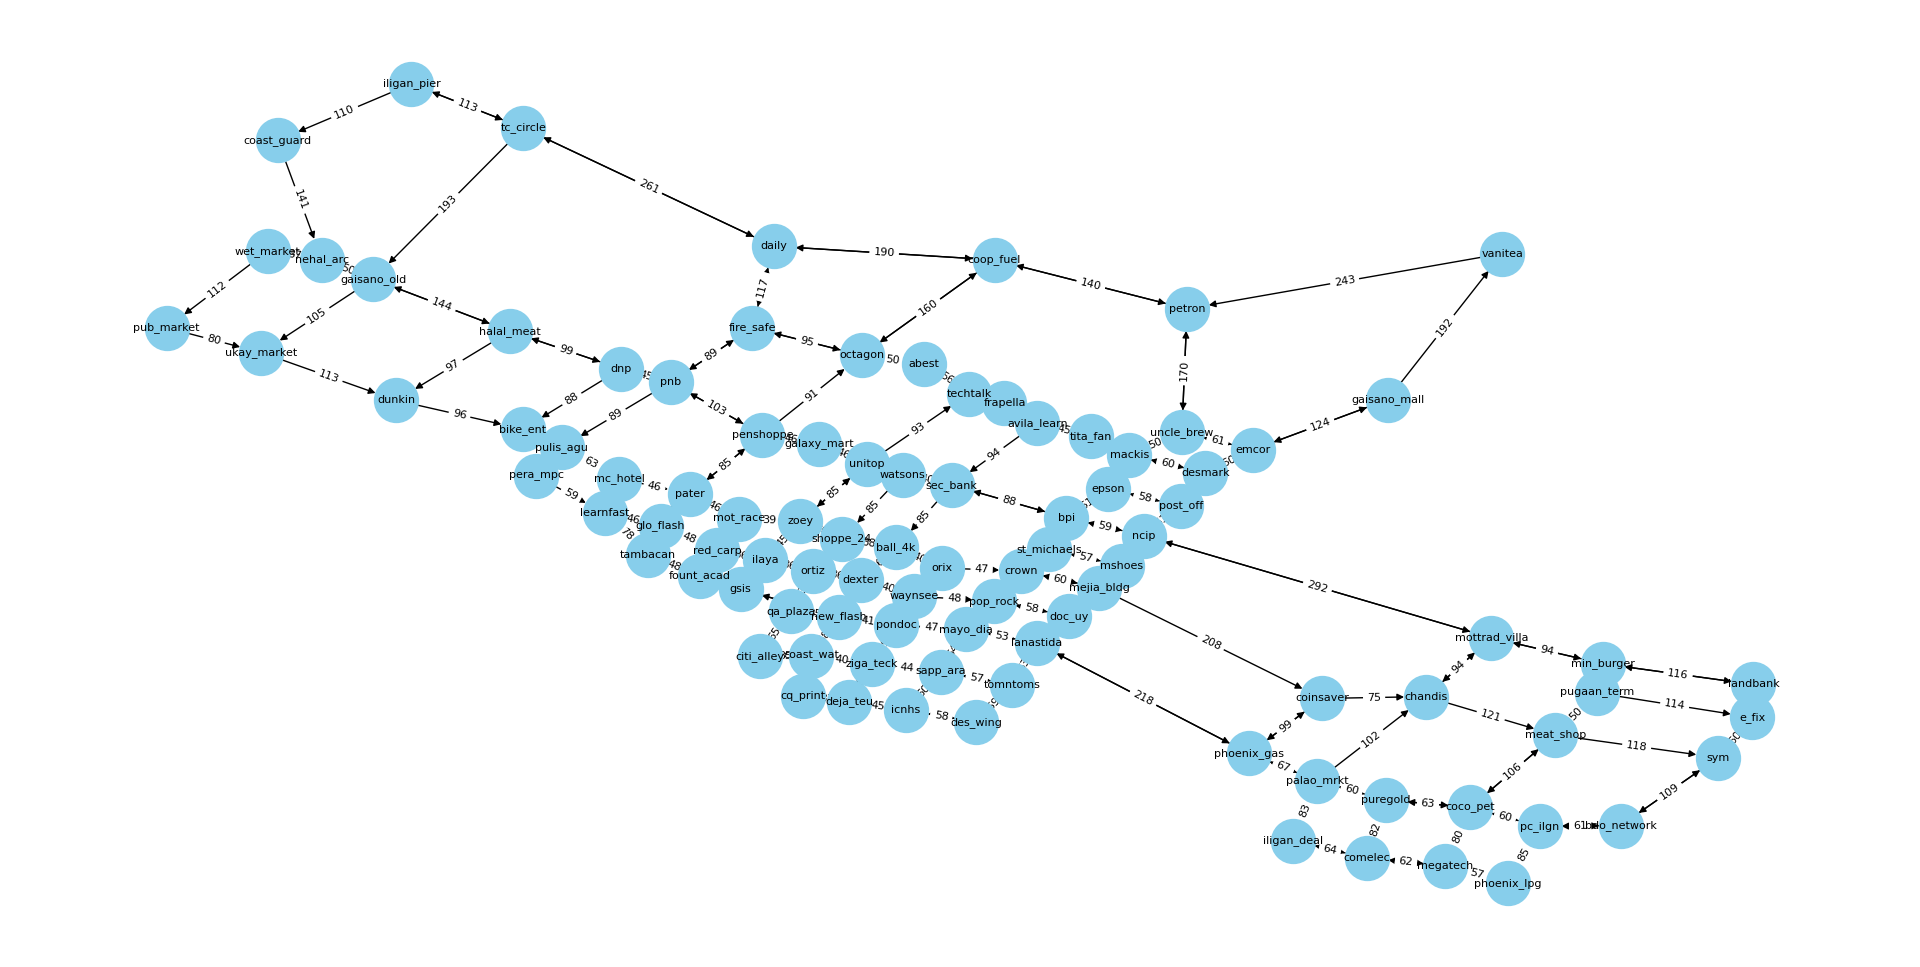
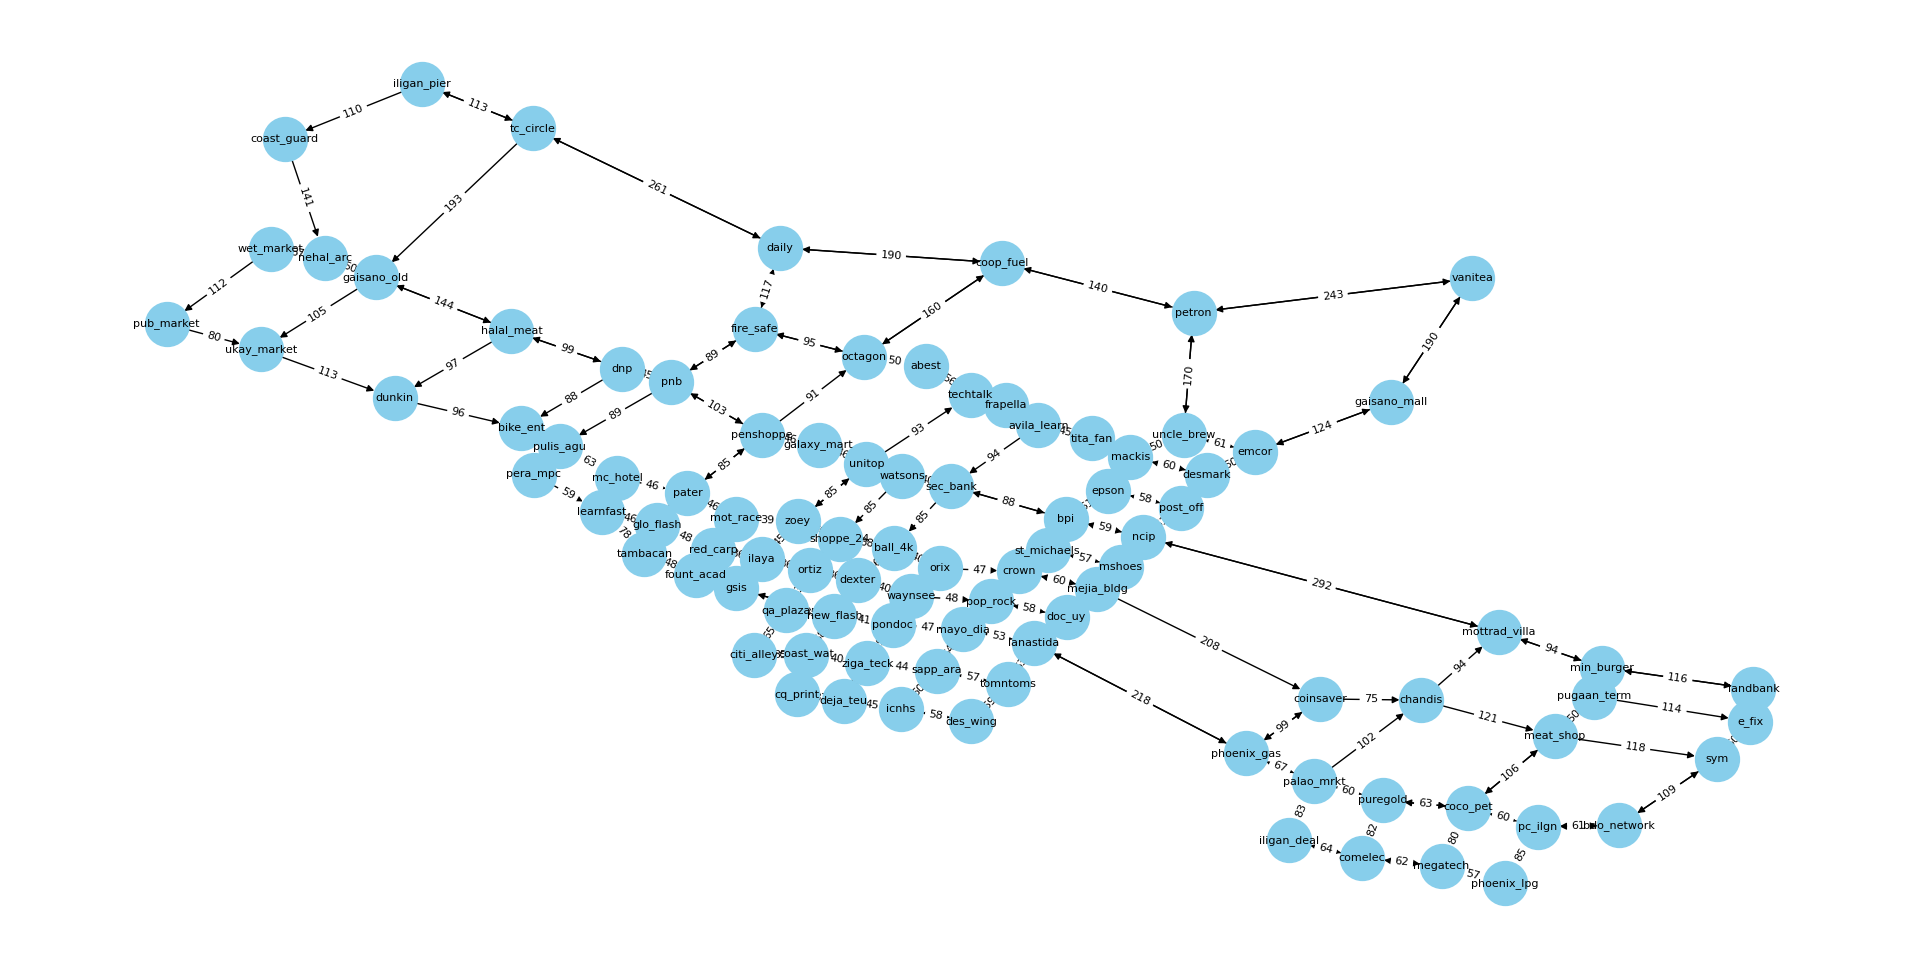
DFS IMPLEMENTATION
Implemented DFS for one route with parameters:
- Starting Point and Destination
- Maximum of 34 nodes visited
- Returns all possible paths

diff --git a/run.py b/run.py
@@ -1,29 +1,98 @@
 ## -- MAIN CODE -- ##
-import networkx as nx
-import matplotlib.pyplot as plt
 from nodes import landmarks
+from collections import deque
 
-# Create the multidigraph (as shown in the previous example)
-G = nx.MultiDiGraph()
+def dfs_all_paths(graph, current_node, end_node, waypoints, path, paths, num_visited, total_weight, max_length=34, memo=None):
+    if memo is None:
+        memo = {}
 
-# Add nodes and edges with weights to the graph
-for node, neighbors in landmarks.items():
-    for neighbor, weight in neighbors:
-        G.add_edge(node, neighbor, weight=weight)
+    # Create a tuple of the current node and path for memoization
+    memo_key = (current_node, tuple(path))
 
-# Experiment with different layouts
-layouts = [
-    (nx.spring_layout, 'Spring Layout'),
-    (nx.kamada_kawai_layout, 'Kamada-Kawai Layout'),
-    (nx.shell_layout, 'Shell Layout')
-]
+    # Check memoized results
+    if memo_key in memo:
+        return memo[memo_key]
 
-# Plot the graph using each layout
-for layout_func, layout_name in layouts:
-    plt.figure(figsize=(12, 12))
-    pos = layout_func(G, weight='weight')
-    nx.draw(G, pos, with_labels=True, node_size=1000, node_color='skyblue', font_size=8, font_color='black')
-    nx.draw_networkx_edge_labels(G, pos, edge_labels=nx.get_edge_attributes(G, 'weight'), font_size=8)
-    plt.title(f"Multidigraph - {layout_name}")
-    plt.show()
+    # Append the current node to the path
+    path.append(current_node)
+    num_visited += 1  # Increment the number of nodes visited
+
+    # If the path length exceeds the maximum length, backtrack
+    if len(path) > max_length:
+        path.pop()
+        num_visited -= 1
+        memo[memo_key] = None  # Avoid redundant computation for this state
+        return
+
+    # If we've reached the end node
+    if current_node == end_node:
+        # Check if the path contains waypoints in the correct order
+        waypoints_index = 0
+        valid = True
+        for node in path:
+            if waypoints_index < len(waypoints) and node == waypoints[waypoints_index]:
+                waypoints_index += 1
+        
+        # If all waypoints are in order, add the path to the list
+        if waypoints_index == len(waypoints):
+            path_info = {
+                'path': path.copy(),
+                'num_visited': num_visited,
+                'total_weight': total_weight
+            }
+            paths.append(path_info)
+            memo[memo_key] = path_info  # Memoize valid path info
+            return
+
+    # Explore each neighbor
+    for neighbor, weight in graph[current_node]:
+        # Avoid cycles by checking if the neighbor is already in the path
+        if neighbor not in path:
+            # Update total weight
+            total_weight += weight
+            
+            # Perform DFS recursively
+            dfs_all_paths(
+                graph, neighbor, end_node, waypoints, path, paths, num_visited, total_weight, max_length, memo
+            )
+            
+            # Subtract the weight after returning from the recursion
+            total_weight -= weight
+
+    # Backtrack
+    path.pop()
+    num_visited -= 1  # Decrement the number of nodes visited
+    memo[memo_key] = None
+
+
+def find_all_paths_with_waypoints(graph, start_node, end_node, waypoints, max_length=34):
+    # List to store all possible paths
+    paths = []
+    
+    # Perform DFS to find all paths
+    dfs_all_paths(graph, start_node, end_node, waypoints, [], paths, num_visited=0, total_weight=0, max_length=max_length, memo={})
+    
+    return paths
+
+# Set the landmarks from the map
+graph = landmarks
+
+# Define the starting and ending nodes
+start_node = 'vanitea'  # Replace 'vanitea' with the desired starting node
+end_node = 'gaisano_mall'    # Replace 'landbank' with the desired ending node
+
+# Define the waypoints (nodes to pass through in order)
+waypoints = ['tc_circle', 'wet_market']
+
+# Define the maximum path length
+max_length = 34
+
+# Call the function with the graph, start node, end node, waypoints, and maximum length
+all_paths = find_all_paths_with_waypoints(graph, start_node, end_node, waypoints, max_length)
+
+# Print all paths
+for i, path in enumerate(all_paths):
+    print(f"Path {i+1}: {path['path']}")
+    print(f"Nodes visited: {path['num_visited']}")
+    print(f"Total weight: {path['total_weight']}")
 

diff --git a/nodes.py b/nodes.py
@@ -10,11 +10,11 @@ landmarks = {
     "post_off": [("ncip", 51), ("epson", 58), ("desmark", 52)],
     "desmark": [("post_off", 52),("mackis", 60), ("emcor", 50)],
     "emcor": [("desmark", 50), ("uncle_brew", 61), ("gaisano_mall", 124)],
-    "gaisano_mall": [("emcor", 124)],
+    "gaisano_mall": [("emcor", 124), ("vanitea", 190)],
 
     #Petron Sabayle to Wet Market
-    "vanitea": [("petron", 243)],
-    "petron": [("coop_fuel", 140), ("uncle_brew", 170)],
+    "vanitea": [("petron", 243), ("gaisano_mall", 190)],
+    "petron": [("coop_fuel", 140), ("uncle_brew", 170), ("vanitea", 243)],
     "coop_fuel": [("daily", 190), ("octagon", 160 ), ("petron", 140)],
     # "octagon": [("coop_fuel", 160)], one way
     "octagon": [("coop_fuel", 160), ("fire_safe", 95), ("abest", 50)], 

diff --git a/map.py b/map.py
@@ -1,4 +1,4 @@
-## -- MAIN CODE -- ##
+## -- GRAPH GENERATOR -- ##
 import networkx as nx
 import matplotlib.pyplot as plt
 from nodes import landmarks
